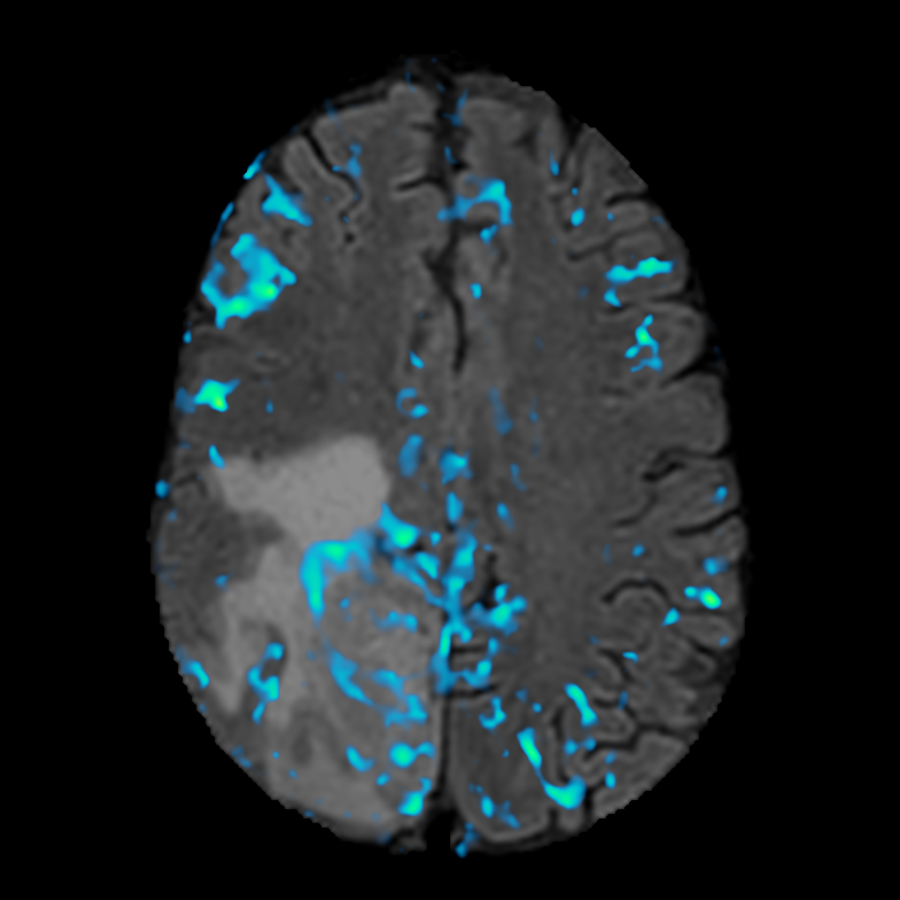
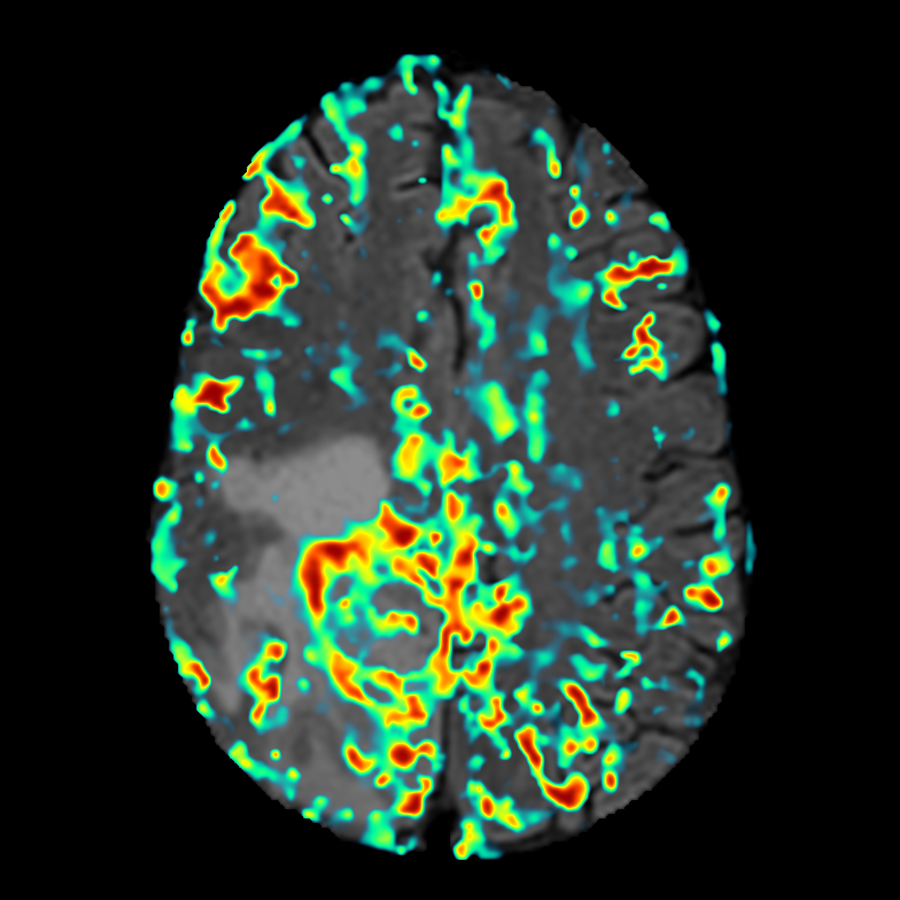
Simplify: remove stat tiles, theme toggle and CV button; drop unsubmitted papers and grades; map range 0-0.1

diff --git a/index.html b/index.html
@@ -18,18 +18,6 @@
     --blue-soft: #e8eef9;
     --shadow: 0 6px 18px rgba(20, 40, 75, .08);
   }
-  :root[data-theme="dark"] {
-    --bg: #0f1621;
-    --card: #161f2d;
-    --text: #e6eaf1;
-    --muted: #9aa6b8;
-    --rule: #263142;
-    --navy: #1b2a45;
-    --navy-deep: #0a1324;
-    --blue: #7aa7ff;
-    --blue-soft: #1f2d47;
-    --shadow: 0 6px 18px rgba(0, 0, 0, .35);
-  }
   * { box-sizing: border-box; }
   html { scroll-behavior: smooth; scroll-padding-top: 72px; }
   body {
@@ -58,12 +46,6 @@
   .topnav .links a.active { color: #fff; background: rgba(255,255,255,.14); }
   .topnav .cv { color: #fff; border: 1px solid rgba(255,255,255,.3); padding: 5px 13px; border-radius: 999px; font-size: 13.5px; margin-left: 6px; transition: background .2s, color .2s; }
   .topnav .cv:hover { background: #fff; color: var(--navy-deep); text-decoration: none; }
-  .theme-toggle {
-    width: 32px; height: 32px; border-radius: 50%; border: 1px solid rgba(255,255,255,.25); background: transparent;
-    color: #fff; display: grid; place-items: center; transition: background .2s, transform .2s; margin-left: 4px;
-  }
-  .theme-toggle:hover { background: rgba(255,255,255,.14); transform: rotate(15deg); }
-  .theme-toggle svg { width: 15px; height: 15px; }
   .menu-btn { display: none; width: 36px; height: 36px; border: 0; background: transparent; color: #fff; border-radius: 8px; place-items: center; }
   .menu-btn svg { width: 20px; height: 20px; }
 
@@ -124,7 +106,6 @@
 
   section { margin-bottom: 52px; }
   h3 { font-size: 1.05rem; font-weight: 600; margin: 28px 0 10px; color: var(--navy); }
-  :root[data-theme="dark"] h3 { color: var(--text); }
   .news { list-style: none; padding: 0; margin: 0; }
   .news li { display: grid; grid-template-columns: 64px 1fr; gap: 14px; padding: 9px 0; border-bottom: 1px solid var(--rule); font-size: 14.5px; }
   .news li:last-child { border-bottom: 0; }
@@ -136,28 +117,12 @@
     border-bottom: 2px solid var(--navy);
     display: flex; align-items: baseline; justify-content: space-between; gap: 12px;
   }
-  :root[data-theme="dark"] h2 { color: var(--text); border-bottom-color: var(--blue); }
   h2 .count { font-weight: 500; font-size: 13px; line-height: 1; letter-spacing: 0; color: var(--muted); }
   p { margin: 0 0 12px; }
   .intro p { font-size: 16px; }
 
-  .stats { display: grid; grid-template-columns: repeat(3, 1fr); gap: 12px; margin: 20px 0 4px; }
-  .stat {
-    background: var(--card); border: 1px solid var(--rule); border-radius: 10px;
-    padding: 14px 16px; transition: transform .2s, box-shadow .2s;
-  }
-  .stat:hover { transform: translateY(-2px); box-shadow: var(--shadow); }
-  .stat .n { font-family: inherit; letter-spacing: -0.02em; font-size: 1.7rem; font-weight: 600; color: var(--blue); line-height: 1.1; }
-  .stat .l { font-size: 13px; color: var(--muted); margin-top: 2px; }
 
-  .interests { display: flex; flex-wrap: wrap; gap: 8px; margin-top: 16px; }
-  .interests span {
-    background: var(--blue-soft); color: var(--navy);
-    font-size: 13px; font-weight: 500; padding: 4px 11px; border-radius: 999px;
-    transition: background .2s, color .2s;
-  }
-  :root[data-theme="dark"] .interests span { color: var(--blue); }
-  .interests span:hover { background: var(--blue); color: #fff; }
+  .interests-line { color: var(--muted); font-size: 15px; margin-top: 16px; }
 
   /* Publication controls */
   .controls { display: flex; flex-wrap: wrap; gap: 10px; align-items: center; margin-bottom: 16px; }
@@ -176,7 +141,6 @@
   }
   .chip:hover { border-color: var(--blue); color: var(--blue); }
   .chip.active { background: var(--navy); border-color: var(--navy); color: #fff; }
-  :root[data-theme="dark"] .chip.active { background: var(--blue); border-color: var(--blue); color: #0f1621; }
   .toggle { display: flex; align-items: center; gap: 8px; font-size: 13px; color: var(--muted); cursor: pointer; user-select: none; }
   .toggle input { accent-color: var(--blue); width: 15px; height: 15px; }
 
@@ -194,25 +158,20 @@
     color: #fff; background: var(--navy);
     padding: 1px 8px; border-radius: 4px; margin-right: 6px;
   }
-  :root[data-theme="dark"] .venue { background: var(--blue-soft); color: var(--blue); }
   .venue.soft { background: var(--blue-soft); color: var(--navy); }
-  :root[data-theme="dark"] .venue.soft { color: var(--muted); }
   .ptitle { display: block; font-weight: 600; color: var(--text); margin: 6px 0 2px; }
   .authors { color: var(--muted); }
   .authors b { color: var(--navy); font-weight: 600; }
-  :root[data-theme="dark"] .authors b { color: var(--text); }
   .plink { font-size: 13px; font-weight: 600; margin-left: 4px; }
   .empty { display: none; color: var(--muted); font-size: 14px; padding: 16px; text-align: center; border: 1px dashed var(--rule); border-radius: 8px; }
   .empty.show { display: block; }
   mark { background: #ffe9a8; color: inherit; border-radius: 2px; padding: 0 1px; }
-  :root[data-theme="dark"] mark { background: #5a4a12; }
 
   .grid2 { display: grid; grid-template-columns: 1fr 1fr; gap: 0 44px; }
 
   .entry { margin-bottom: 18px; }
   .entry .top { display: flex; justify-content: space-between; gap: 12px; flex-wrap: wrap; }
   .entry .title { font-weight: 600; color: var(--navy); }
-  :root[data-theme="dark"] .entry .title { color: var(--text); }
   .entry .date { color: var(--muted); font-size: 13.5px; white-space: nowrap; }
   .entry .sub { color: var(--muted); font-size: 14.5px; }
   .entry ul { margin: 6px 0 0; padding-left: 18px; }
@@ -256,9 +215,6 @@
     .topnav.open .links { display: flex; }
     .topnav .links a { padding: 11px 12px; font-size: 15px; }
     .news li { grid-template-columns: 52px 1fr; }
-    .stats { gap: 8px; }
-    .stat { padding: 10px 12px; }
-    .stat .n { font-size: 1.3rem; }
     footer { padding: 20px 16px 32px; }
   }
 </style>
@@ -277,10 +233,6 @@
       <a href="#service">Service &amp; Activities</a>
     </div>
     <a class="cv" href="Piyush_Prajapati_CV.pdf" target="_blank" rel="noopener">CV</a>
-    <button class="theme-toggle" id="themeToggle" aria-label="Toggle dark mode" title="Toggle dark mode">
-      <svg id="iconMoon" viewBox="0 0 24 24" fill="none" stroke="currentColor" stroke-width="2"><path d="M21 12.8A9 9 0 1 1 11.2 3a7 7 0 0 0 9.8 9.8z"/></svg>
-      <svg id="iconSun" viewBox="0 0 24 24" fill="none" stroke="currentColor" stroke-width="2" style="display:none"><circle cx="12" cy="12" r="4"/><path d="M12 2v2m0 16v2M4.9 4.9l1.4 1.4m11.4 11.4 1.4 1.4M2 12h2m16 0h2M4.9 19.1l1.4-1.4m11.4-11.4 1.4-1.4"/></svg>
-    </button>
     <button class="menu-btn" id="menuBtn" aria-label="Menu" aria-expanded="false">
       <svg viewBox="0 0 24 24" fill="none" stroke="currentColor" stroke-width="2"><path d="M4 7h16M4 12h16M4 17h16"/></svg>
     </button>
@@ -295,7 +247,6 @@
       <p class="role">PhD Scholar, Centre for Biomedical Engineering, IIT Delhi</p>
       <p class="tagline">Building physics-aware deep learning for fast, reliable, low-dose quantitative DCE-MRI in glioma, with calibrated uncertainty.</p>
       <div class="hero-links">
-        <a class="primary" href="Piyush_Prajapati_CV.pdf" target="_blank" rel="noopener">Download CV</a>
         <a href="https://scholar.google.com/citations?user=yC81rO8AAAAJ&amp;hl=en" target="_blank" rel="noopener">Google Scholar</a>
         <a href="https://github.com/piyushkp27" target="_blank" rel="noopener">GitHub</a>
         <a href="https://x.com/piyushkp27" target="_blank" rel="noopener">X</a>
@@ -324,16 +275,7 @@
       <p>My research spans tracer-kinetic modelling for dynamic contrast-enhanced MRI, physics-separable and probabilistic neural networks, diffusion-based posterior estimation, and brain tumour segmentation. The common thread is making quantitative MRI fast and dependable enough for routine clinical use: estimators that run in seconds rather than minutes, report their own uncertainty, and hold up when the acquisition protocol or the contrast dose changes.</p>
       <p>I am particularly interested in the point where imaging physics meets learning. Rather than treating the scanner as a black box, I build models around the signal equations, which is what lets them stay accurate at a quarter of the standard gadolinium dose and transfer across protocols. I also work on segmentation that generalises across tumour types and cohorts, and on perfusion-based mapping of tumour infiltration beyond the visible margin.</p>
       <p>Before my PhD, I completed an M.Tech. in Biomedical Engineering at IIT Ropar, where I worked on histopathology image analysis with Dr. Deepti R. Bathula, and a B.Tech. in Electrical and Electronics Engineering, with earlier work in industrial automation.</p>
-      <div class="stats">
-        <div class="stat"><div class="n">66×</div><div class="l">faster than conventional DCE-MRI fitting</div></div>
-        <div class="stat"><div class="n">¼</div><div class="l">of standard contrast dose, same kinetic maps</div></div>
-        <div class="stat"><div class="n">6</div><div class="l">semesters as teaching assistant</div></div>
-      </div>
-      <div class="interests">
-        <span>Quantitative MRI</span><span>Physics-Informed Neural Networks</span><span>Medical Image Analysis</span>
-        <span>Deep Learning</span><span>Computer Vision</span><span>Generative AI &amp; Diffusion Models</span>
-        <span>Uncertainty Quantification</span><span>Image Segmentation</span><span>AI in Healthcare</span>
-      </div>
+      <p class="interests-line"><strong>Interests:</strong> Quantitative MRI, physics-informed neural networks, medical image analysis, deep learning, computer vision, generative models and diffusion, uncertainty quantification, image segmentation, AI in healthcare.</p>
       <h3>News</h3>
       <ol class="news">
         <li><span class="d">2026</span><span>Five abstracts submitted to ISMRM 2027, Vancouver, including two first-author works on ProTK-Net and a low-dose generative tracer-kinetic estimator.</span></li>
@@ -375,12 +317,6 @@
         <li data-type="progress" data-year="2026" data-first="0"><span class="venue soft">Under Review</span>
           <span class="ptitle">Multiparametric MRI-based Longitudinal Assessment of Residual Tumor Volume and Microvascular Changes Following Glioblastoma Resection</span>
           <span class="authors">M. T. Sheikh, A. Kandpal, V. K. Yadav, <b>P. K. Prajapati</b>, R. K. Singh, R. Patir, S. Vaishya, S. Ahlawat, R. K. Gupta, A. Singh.</span></li>
-        <li data-type="progress" data-year="2026" data-first="1"><span class="venue soft">Ready for Submission</span>
-          <span class="ptitle">Non-invasive Mapping of Tumor Cell Infiltration in the Peritumoral Region of Glioblastoma using Quantitative Dynamic Contrast Enhanced Perfusion MRI</span>
-          <span class="authors"><b>P. K. Prajapati</b>, A. Kandpal, S. Srivastava, R. Patir, M. C. Sharma, S. Vaishya, R. K. Singh, R. K. Gupta, A. Singh.</span></li>
-        <li data-type="progress" data-year="2026" data-first="1"><span class="venue soft">In Preparation</span>
-          <span class="ptitle">Dose-Robust and Acquisition-Independent Deep Learning for DCE-MRI Tracer-Kinetic Parameter Estimation: Application in Glioma</span>
-          <span class="authors"><b>P. K. Prajapati</b>, A. Kandpal, M. T. Sheikh, R. K. Singh, R. K. Gupta, A. Singh.</span></li>
         <li data-type="abstract" data-year="2027" data-first="1"><span class="venue">ISMRM 2027 · Submitted</span>
           <span class="ptitle">ProTK-Net: A Probabilistic, Physics-Separable Network for Tracer-Kinetic Parameter Estimation in Glioma DCE-MRI</span>
           <span class="authors"><b>P. K. Prajapati</b>, A. Kandpal, M. T. Sheikh, R. K. Singh, R. K. Gupta, A. Singh. Vancouver, Canada.</span></li>
@@ -432,17 +368,17 @@
         <h2>Education</h2>
         <div class="entry">
           <div class="top"><span class="title">Ph.D. in Biomedical Engineering, IIT Delhi</span><span class="date">Sep 2020 – Present</span></div>
-          <div class="sub">Centre for Biomedical Engineering · CGPA 9.17/10 · Advisor: Prof. Anup Singh, MedImg Lab</div>
+          <div class="sub">Centre for Biomedical Engineering · Advisor: Prof. Anup Singh, MedImg Lab</div>
           <div class="sub">Thesis: Quantitative MRI and its Applications</div>
         </div>
         <div class="entry">
           <div class="top"><span class="title">M.Tech. in Biomedical Engineering, IIT Ropar</span><span class="date">Jul 2018 – Jun 2020</span></div>
-          <div class="sub">Computational Biomedical Imaging Lab · CGPA 9.02/10 · Advisor: Dr. Deepti R. Bathula</div>
+          <div class="sub">Computational Biomedical Imaging Lab · Advisor: Dr. Deepti R. Bathula</div>
           <div class="sub">Thesis: Colorectal cancer detection and segmentation in whole slide images (AUC 0.94, Dice 0.76)</div>
         </div>
         <div class="entry">
           <div class="top"><span class="title">B.Tech. in Electrical and Electronics Engineering, AKGEC (AKTU)</span><span class="date">Aug 2012 – Jul 2016</span></div>
-          <div class="sub">Ghaziabad, India · 77.46%</div>
+          <div class="sub">Ghaziabad, India</div>
         </div>
       </section>
 
@@ -510,20 +446,6 @@
 (function () {
   var root = document.documentElement;
 
-  /* Theme toggle */
-  var moon = document.getElementById('iconMoon'), sun = document.getElementById('iconSun');
-  function applyTheme(t) {
-    if (t === 'dark') { root.setAttribute('data-theme', 'dark'); moon.style.display = 'none'; sun.style.display = ''; }
-    else { root.removeAttribute('data-theme'); moon.style.display = ''; sun.style.display = 'none'; }
-  }
-  var saved = null;
-  try { saved = localStorage.getItem('theme'); } catch (e) {}
-  applyTheme(saved || (window.matchMedia('(prefers-color-scheme: dark)').matches ? 'dark' : 'light'));
-  document.getElementById('themeToggle').addEventListener('click', function () {
-    var next = root.getAttribute('data-theme') === 'dark' ? 'light' : 'dark';
-    applyTheme(next);
-    try { localStorage.setItem('theme', next); } catch (e) {}
-  });
 
   /* Copy email */
   var copyBtn = document.getElementById('copyEmail'), copyLabel = copyBtn.querySelector('span');
